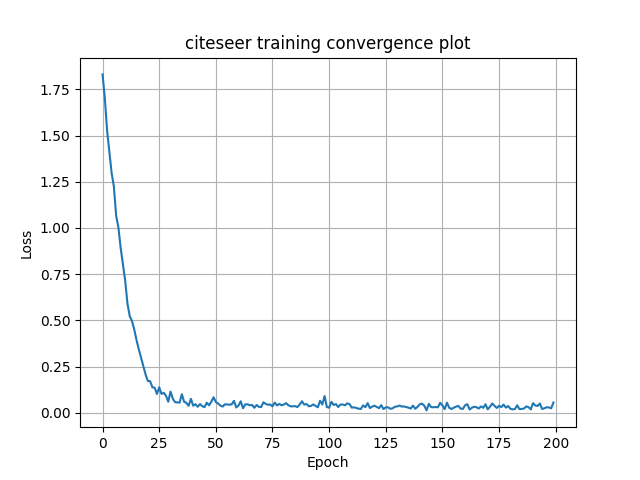
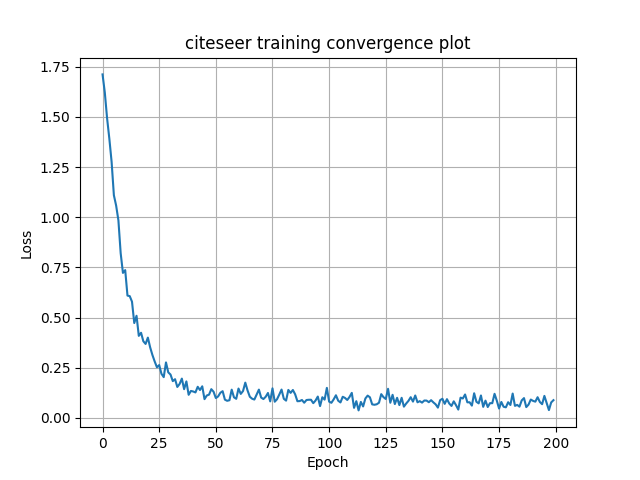
20/class

diff --git a/script/stage_5_script/script_GCN_ablation.py b/script/stage_5_script/script_GCN_ablation.py
@@ -18,9 +18,7 @@ if __name__ == '__main__':
         print(f"\nRunning GCN on dataset: {dataset}")
         run_GCN_train_eval(dataset)
 
-    # try dropout values 0.5, 0.7, 0.9 for each dataset
-    # for dp in [0.5, 0.7, 0.9]:
-    #   print(f"\n--- Dropout {dp} ---")
-    run_GCN_train_eval('cora', dropout=0.5)
-    run_GCN_train_eval('citeseer', dropout=0.5)
-    run_GCN_train_eval('pubmed', dropout=0.5)
+    # 0.7 droprate ablation
+    run_GCN_train_eval('cora', dropout=0.7)
+    run_GCN_train_eval('citeseer', dropout=0.7)
+    run_GCN_train_eval('pubmed', dropout=0.7)
